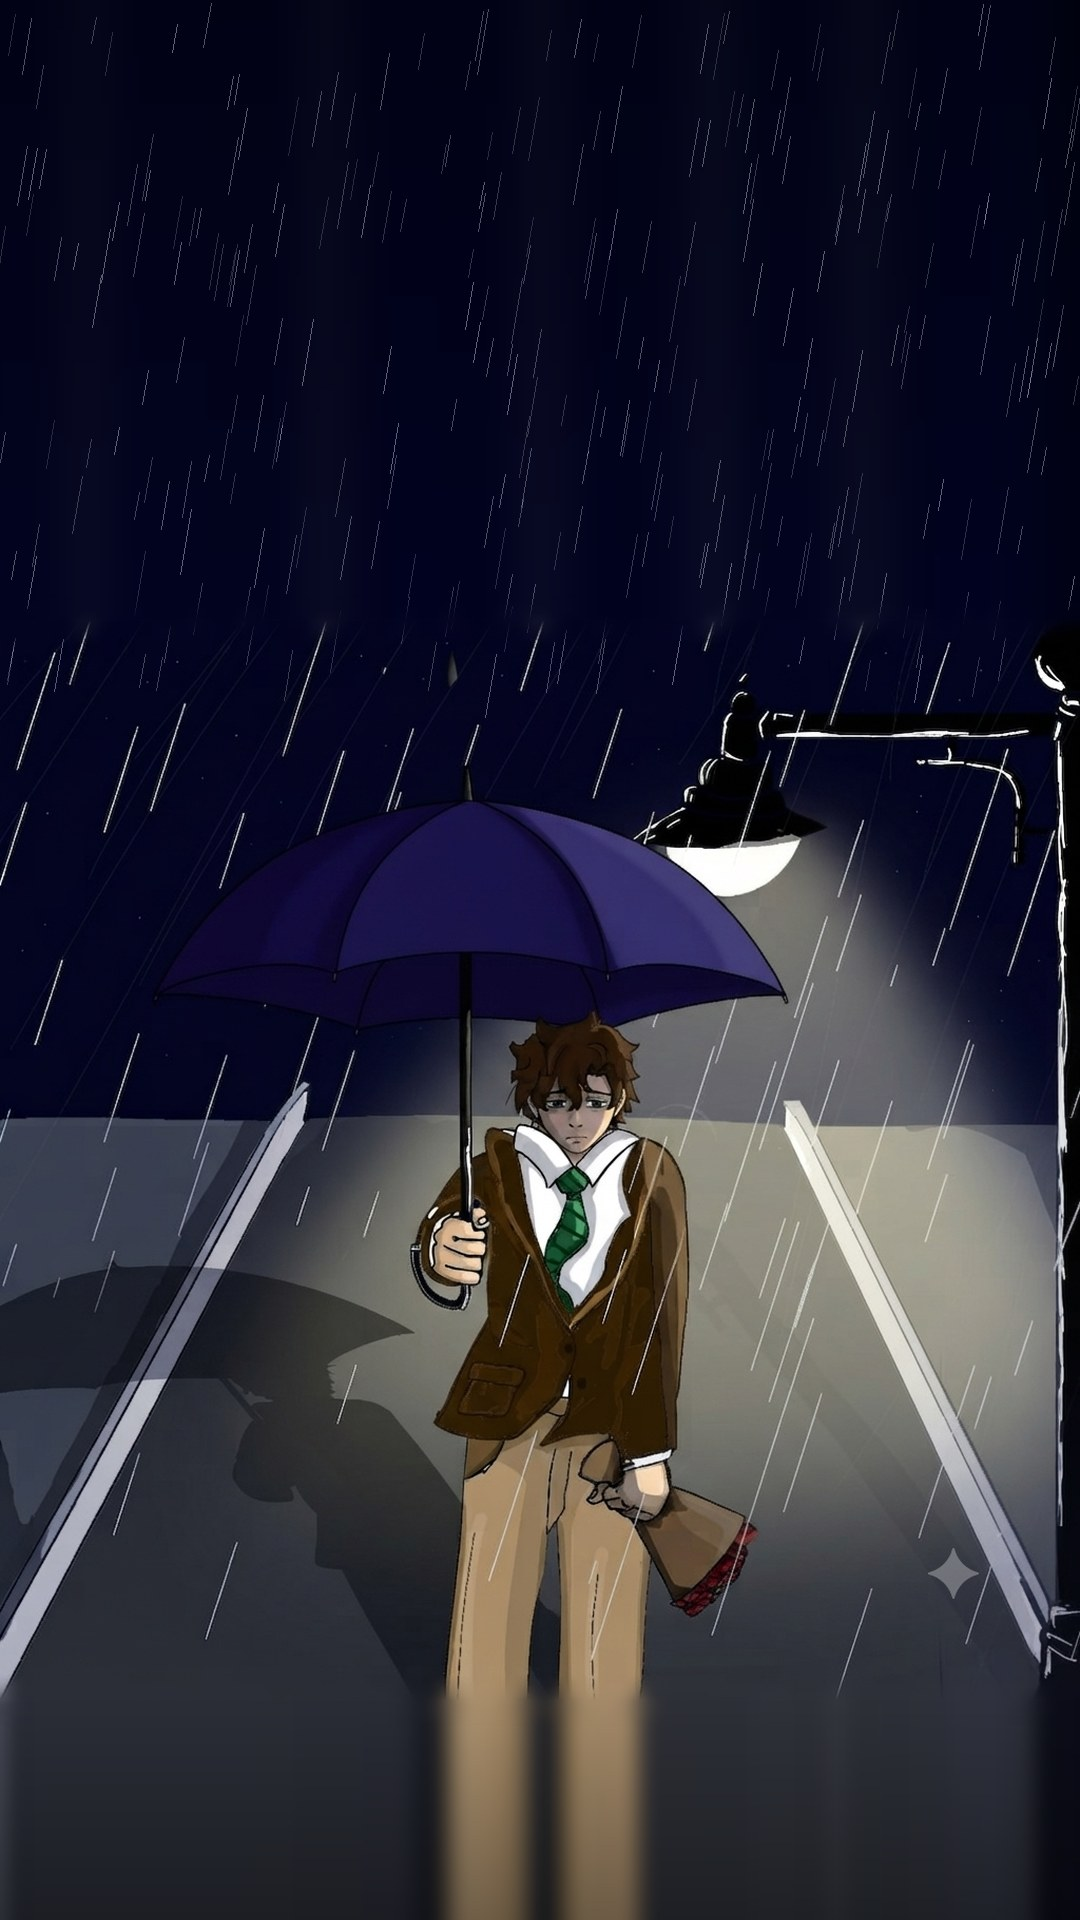
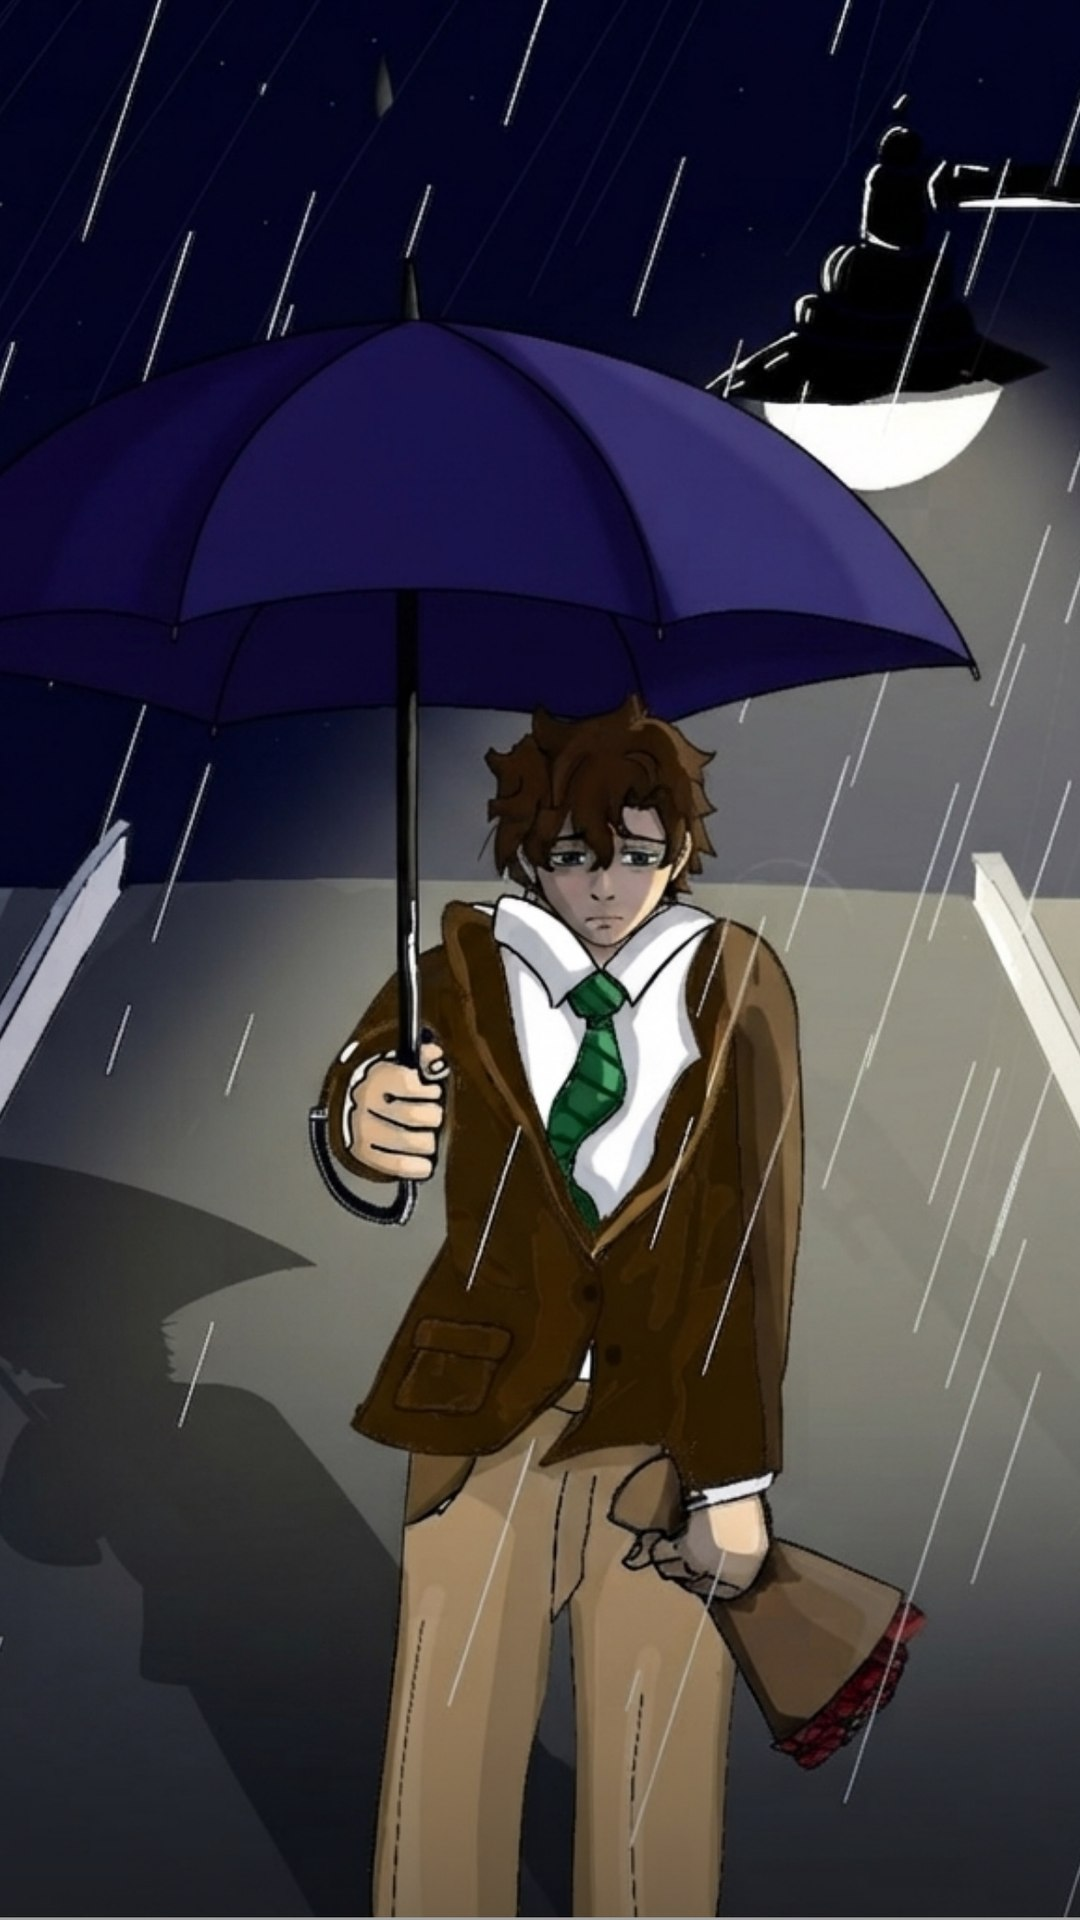
Tüm arka planlar gerçek fotoğraflarla değiştirildi
Oyuncunun gönderdiği 8 fotoğraf 1080x1920'ye (9:16) oranı bozulmadan
oturtuldu; gerektiğinde ortadan kırpıldı, hiçbiri gerilmedi. Hepsine
diyalog kutusunun altında metin okunurluğunu koruyan hafif bir alt
karartma uygulandı.

- bedroom_morning / classroom / club_room / hallway / street_morning:
  elle çizilmiş SVG'lerin yerini aldı, SVG'ler kaldırıldı.
- school_yard: daha yüksek çözünürlüklü sürümle güncellendi (önceki
  810px genişliğe büyütülmüştü, artık 1080px kaynaktan).
- rain_night: 9:16 gönderilen yeni sürüm, kare çizimi uzatmaya gerek
  kalmadı.
- school_gate_evening: okul bahçesi fotoğrafının akşamüstü derecelemesi
  (ışık altın, gölgeler lacivert, sağ üstten alçalan güneş).
- debate_bg: tartışma sahnesinin zemini artık düz degrade değil, loş
  bir duvar fotoğrafı; üstündeki degradeler karakteri öne çıkarıyor.
- Menü arka planı da sokak fotoğrafına geçti.

Test (390x844, gerçek tıklamalarla): dokuz sahnenin hepsi sırayla
görüldü, pageerror yok, eksik dosya yok, hikâye bütünlüğü bozulmadı
(67 etiket, kırık hedef yok).

Claude-Session: https://claude.ai/code/session_01Fw5P33kcZ8f4AZ6oKuWskM

diff --git a/js/story.js b/js/story.js
@@ -68,7 +68,7 @@ const STORY = {
     // kadar hiçbir yazı görünmez.
     { type: 'fx', effect: 'blackout' },
     { type: 'bgm', file: 'alarm_loop.mp3', fadeIn: 0.2 },
-    { type: 'bg', file: 'bedroom_morning.svg' },
+    { type: 'bg', file: 'bedroom_morning.jpg' },
     { type: 'show', id: 'girl', file: 'girl_sleepy.svg', position: 'center', transition: 'fade' },
     { type: 'say', speaker: '', text: '' },      // dokunuşu bekler (ekran siyah)
     // Dokunuşta: gözler yavaşça açılır, alarm susar, oda müziği girer, yazı başlar.
@@ -209,7 +209,7 @@ const STORY = {
 
   // 11: Kısa yürüyüş / geçiş sahnesi, sonra okula varış.
   act1_walk: [
-    { type: 'bg', file: 'street_morning.svg' },
+    { type: 'bg', file: 'street_morning.jpg' },
     { type: 'bgm', file: 'morning_theme.mp3' },   // sokak: üretilmiş sabah teması
     { type: 'show', id: 'girl', file: 'girl_neutral.svg', position: 'center', transition: 'fade' },
     { type: 'say', speaker: '', text: 'Sokaklar hâlâ yeni uyanıyor; birkaç kişi telaşla yürüyor, bir kedi kaldırımda geriniyor.' },
@@ -310,7 +310,7 @@ const STORY = {
 
   // ---- 1) KEREM POV: DERGİ KULÜBÜ ----
   act2_start: [
-    { type: 'bg', file: 'club_room.svg' },
+    { type: 'bg', file: 'club_room.jpg' },
     { type: 'bgm', file: 'club_room.mp3' },       // kulüp odası: piyano
     { type: 'say', speaker: '', text: '— Bakış açısı değişiyor —' },
     { type: 'show', id: 'boy', file: 'boy_neutral.svg', position: 'center', transition: 'fade' },
@@ -349,7 +349,7 @@ const STORY = {
 
 
   act2_club_leave: [
-    { type: 'bg', file: 'hallway.svg' },
+    { type: 'bg', file: 'hallway.jpg' },
     { type: 'bgm', file: 'school_day.mp3' },      // koridor/okul
     { type: 'say', speaker: '', text: 'Dergi yığınını koluna alıp kapıya yöneliyor.' },
     { type: 'say', speaker: BOY_NAME, text: 'Tamam, sınıflara dağıtmaya başlıyorum.' },
@@ -403,7 +403,7 @@ const STORY = {
 
   // ---- 3) İNCİ + ÖĞRETMEN TARTIŞMASI (Yahya henüz yok) ----
   act2_debate_start: [
-    { type: 'bg', file: 'classroom.svg' },
+    { type: 'bg', file: 'classroom.jpg' },
     { type: 'say', speaker: '', text: '— Bakış açısı değişiyor —' },
     { type: 'show', id: 'girl', file: 'girl_neutral.svg', position: 'center', transition: 'fade' },
     { type: 'say', speaker: '', text: 'Sınıf, Din Kültürü ve Ahlak Bilgisi dersi.' },
@@ -709,7 +709,7 @@ const STORY = {
 
   // Sahne 1 (İnci POV) — ACT II'nin bittiği yerden devam. Önce kendi gününe dair düşünceler.
   act3_start: [
-    { type: 'bg', file: 'school_gate_evening.svg' },
+    { type: 'bg', file: 'school_gate_evening.jpg' },
     { type: 'bgm', file: 'evening_walk.mp3' },
     { type: 'show', id: 'girl', file: 'girl_neutral.svg', position: 'center', transition: 'fade' },
     { type: 'camera', effect: 'slide-left' },
@@ -927,7 +927,7 @@ const STORY = {
     { type: 'say', speaker: '', text: 'Akşam yağmur başlıyor. Yahya şemsiyesini açıp yürümeye devam ediyor.' },
     { type: 'say', speaker: '', text: '(İçinden) Sorduğuma değdi. Sormasaydım bütün hafta merak edecektim.' },
     { type: 'say', speaker: '', text: '(İçinden) Dergiyi masaya bırakırım, gerisi kendi bilir.' },
-    { type: 'bg', file: 'school_gate_evening.svg' },
+    { type: 'bg', file: 'school_gate_evening.jpg' },
     { type: 'jump', goto: 'act3_ending' }
   ],
 

diff --git a/css/style.css b/css/style.css
@@ -87,7 +87,7 @@ button {
   background:
     linear-gradient(180deg, rgba(26, 15, 9, 0.35) 0%, rgba(22, 13, 8, 0.62) 45%, rgba(18, 11, 6, 0.93) 78%, var(--color-bg) 100%),
     radial-gradient(circle at 50% 22%, rgba(217, 164, 65, 0.16), transparent 62%),
-    url('../assets/backgrounds/street_morning.svg') center 26% / cover no-repeat,
+    url('../assets/backgrounds/street_morning.jpg') center 34% / cover no-repeat,
     var(--color-bg);
   text-align: center;
 }
@@ -712,9 +712,13 @@ button {
   pointer-events: none;
   visibility: hidden;
   transition: opacity 320ms ease;
+  /* Zemin: loş, sıcak bir duvar fotoğrafı. Üstündeki degradeler karakteri
+     öne çıkarır ve alt kenarı diyalog kutusuna doğru karartır. */
   background:
-    radial-gradient(120% 70% at 50% 18%, rgba(217, 164, 65, 0.16), transparent 62%),
-    linear-gradient(180deg, #241611 0%, #150d09 100%);
+    radial-gradient(120% 70% at 50% 18%, rgba(217, 164, 65, 0.14), transparent 62%),
+    linear-gradient(180deg, rgba(36, 22, 17, 0.30) 0%, rgba(21, 13, 9, 0.72) 78%, rgba(15, 9, 6, 0.9) 100%),
+    url('../assets/backgrounds/debate_bg.jpg') center center / cover no-repeat,
+    #150d09;
 }
 
 #screen-game.debate-mode .debate-layer {
